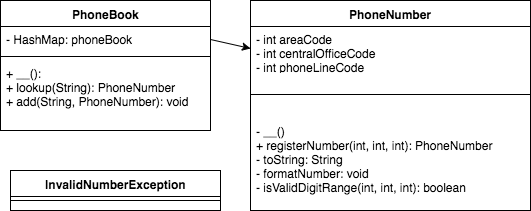
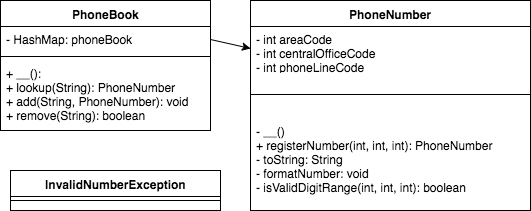
Added remove

Changed region(s): [[0.0, 0.5118, 0.2712, 0.5972]]

diff --git a/src/main/java/io/github/aaronclong/holdingobjects/PhoneBook.java b/src/main/java/io/github/aaronclong/holdingobjects/PhoneBook.java
@@ -19,5 +19,11 @@ public class PhoneBook {
   public PhoneNumber lookup(String name) {
     return phoneBook.get(name);
   }
-  
+
+  public boolean remove(String name) {
+    PhoneNumber num = phoneBook.get(name);
+    if (num == null) { return false; }
+    return true;
+  }
+
 }
